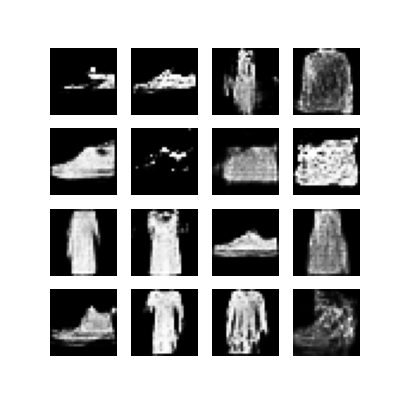
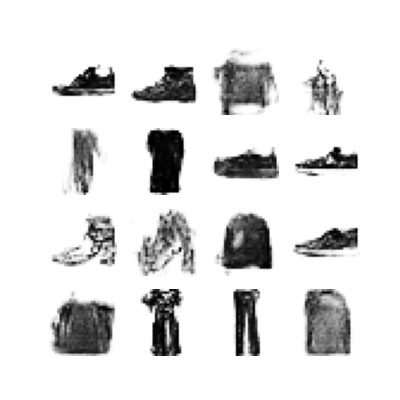
updated: channel for generated images
updated lsgan image for showing

diff --git a/data_generator.py b/data_generator.py
@@ -31,7 +31,7 @@ class LSGANImageGenerator():
 
         for i in range(predictions.shape[0]):
             plt.subplot(4, 4, i + 1)
-            plt.imshow(predictions[i, :, :, 0] * 127.5 + 127.5, cmap="gray")
+            plt.imshow(predictions[i, :, :, 0] * 127.5 + 127.5, cmap="gray_r")
             plt.axis('off')
 
         plt.savefig(image_name)
